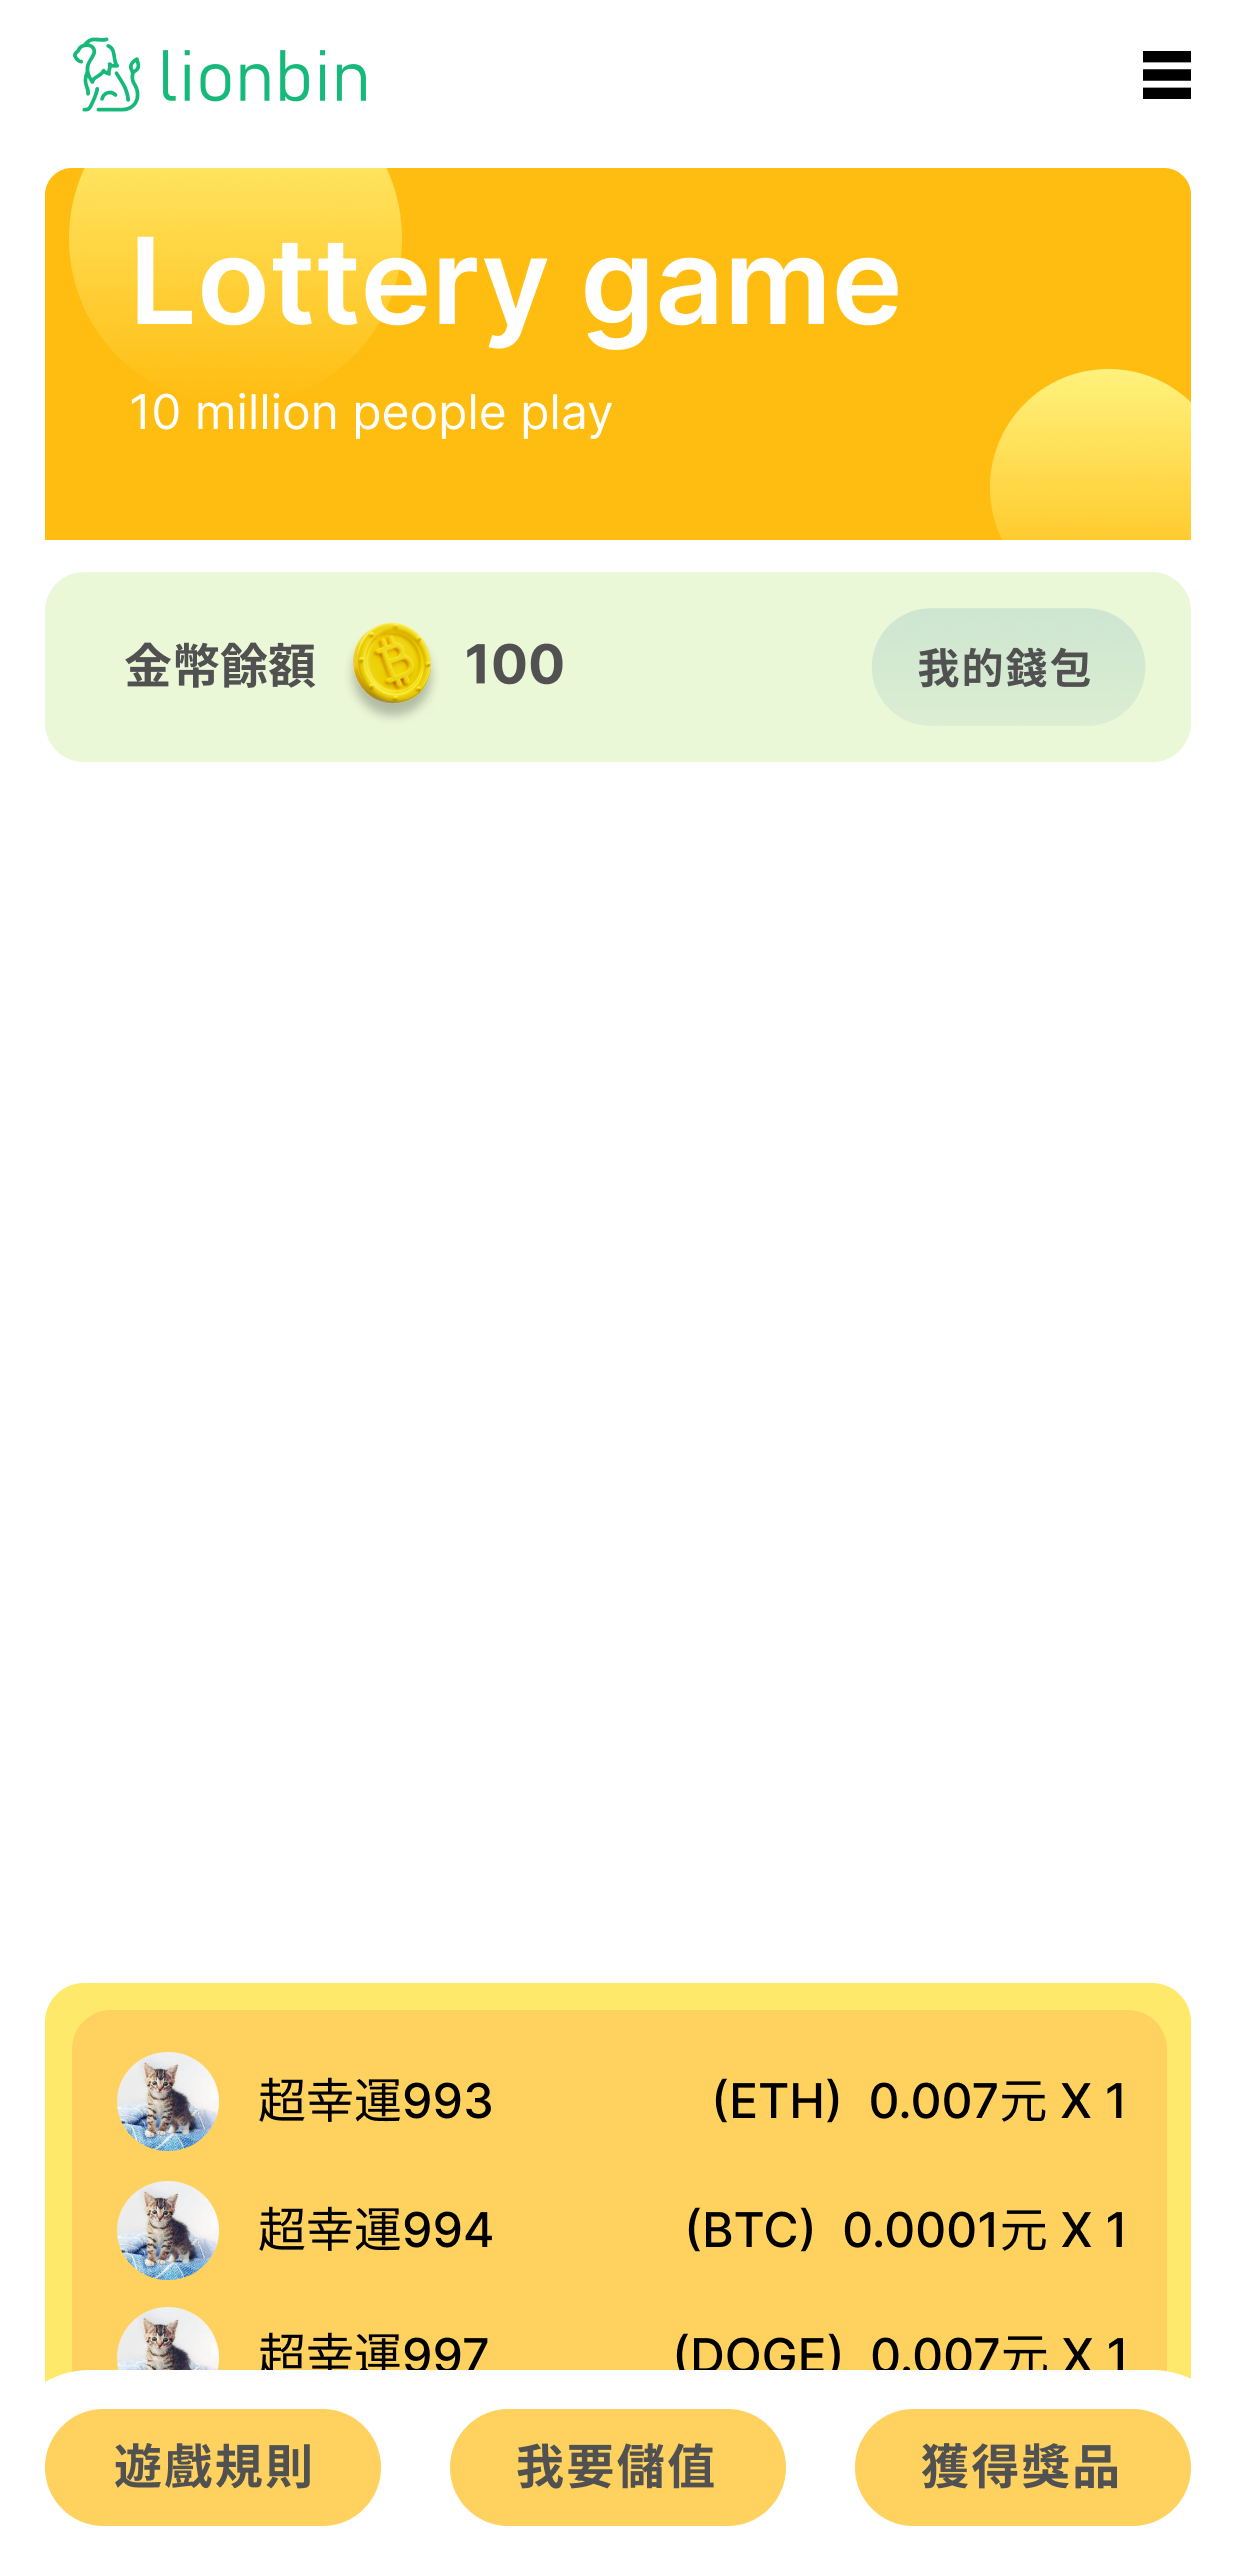
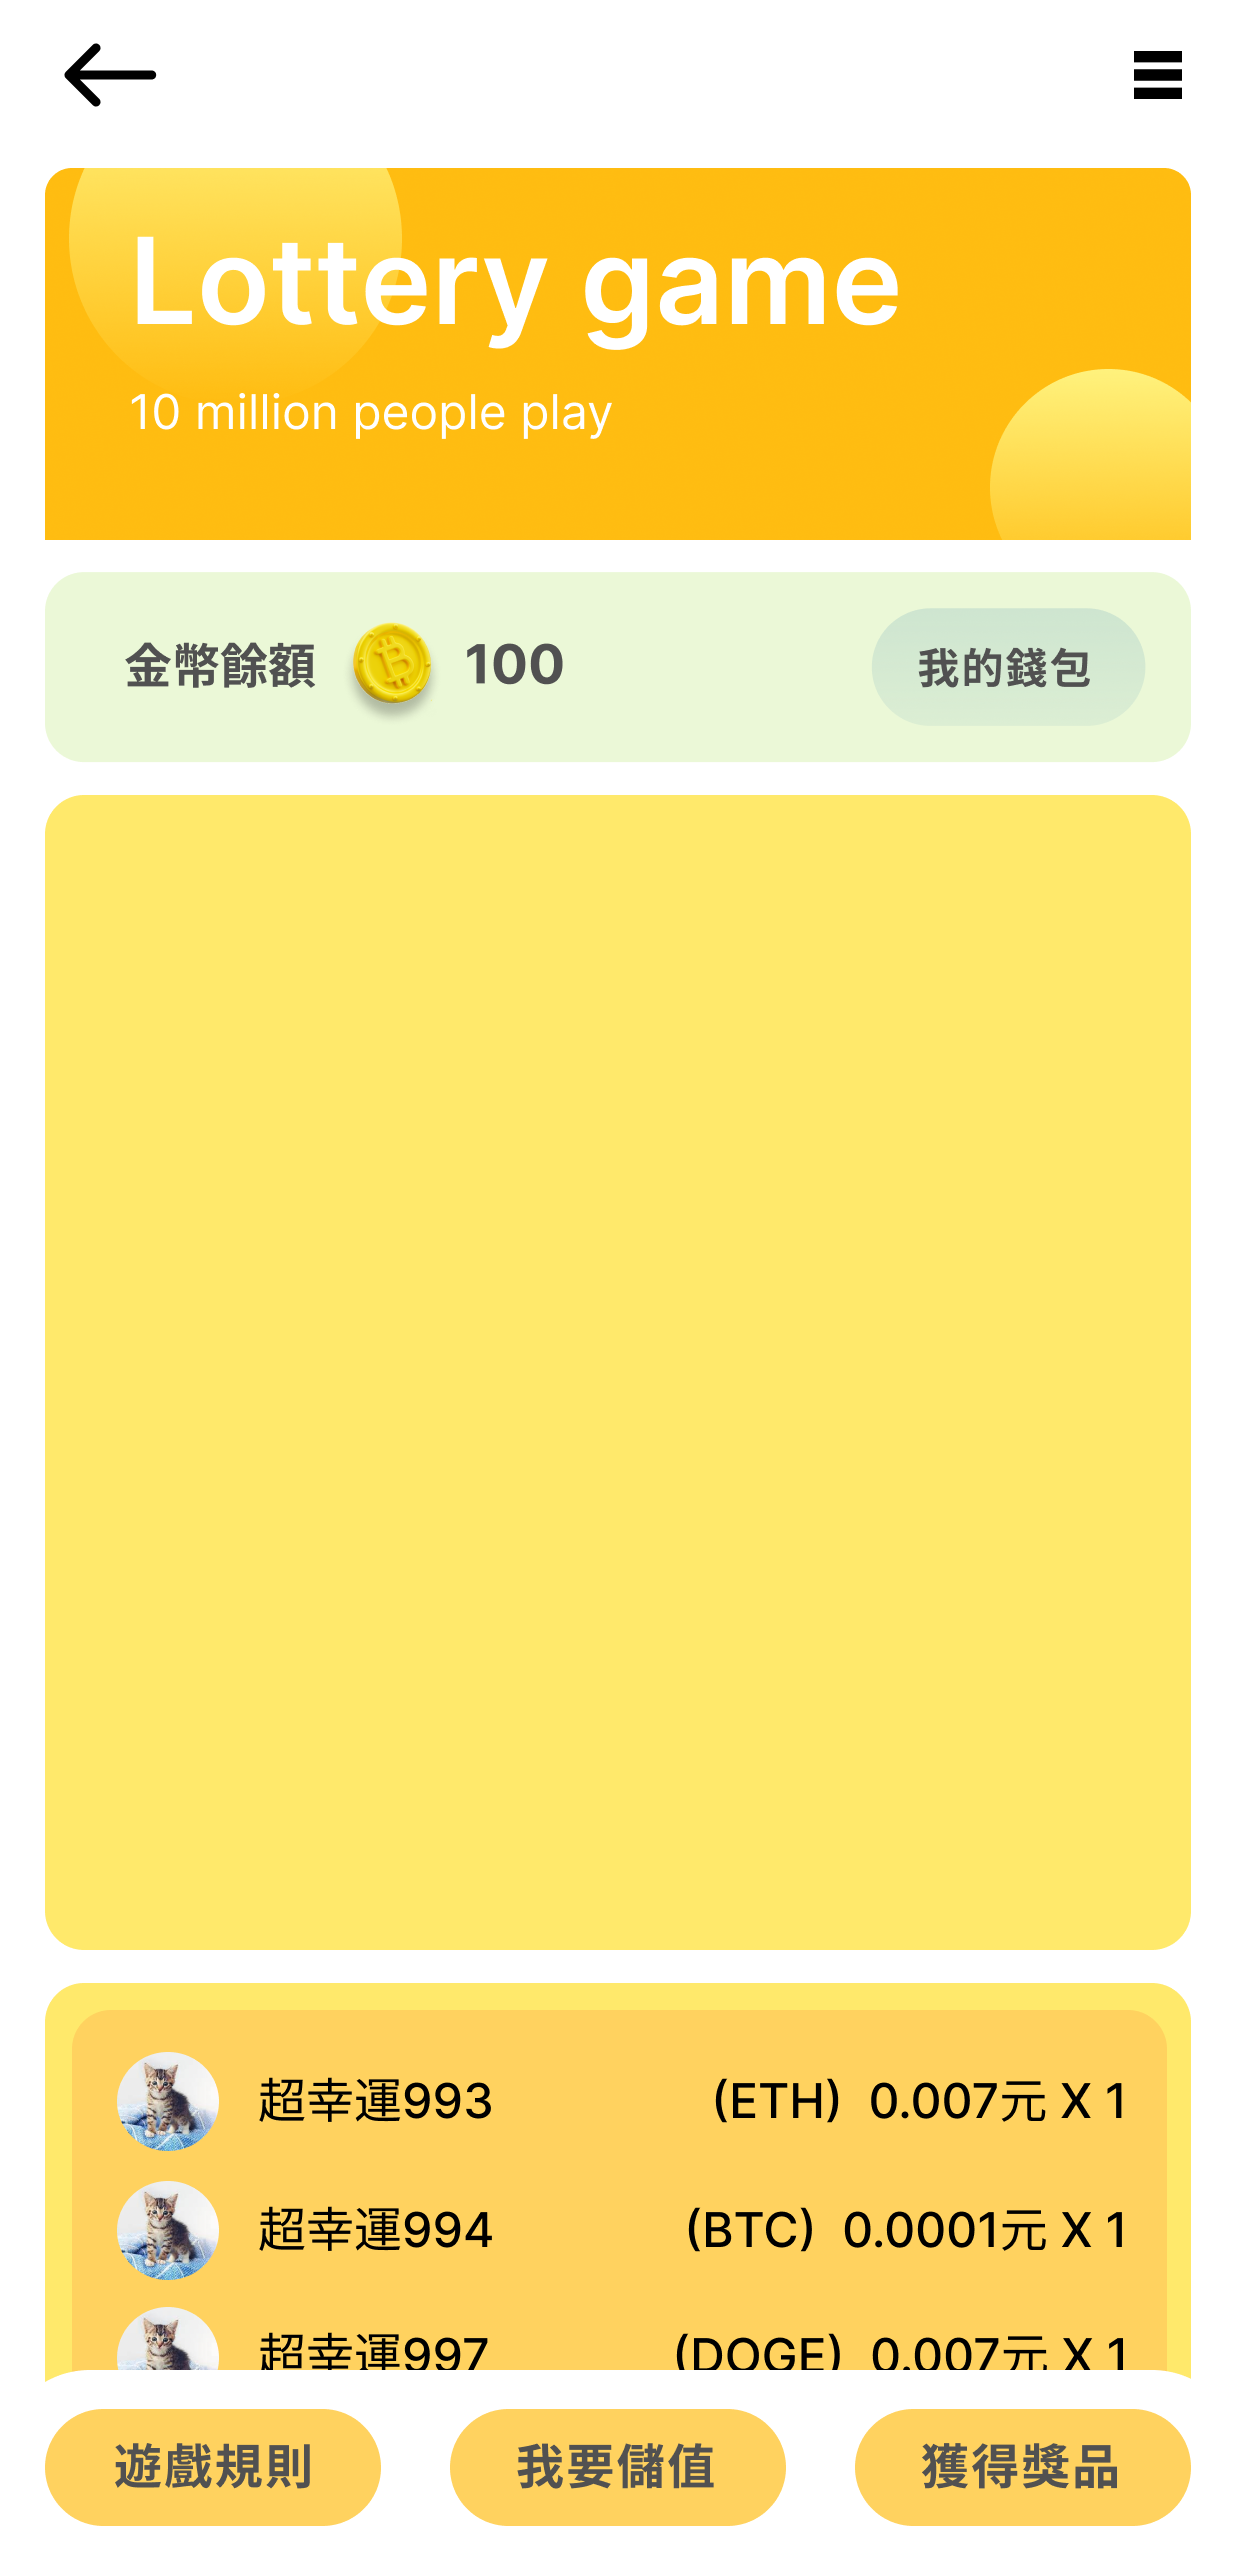
bg_add

diff --git a/index.html b/index.html
@@ -16,6 +16,7 @@
         background: url(images/bg.png) no-repeat ;
         background-size: cover;
         overflow: hidden;
+        position: relative;
     }
     #container {
         margin: 0 auto;
@@ -99,11 +100,21 @@
         font-weight: bold;
         font-family: sans-serif;
     }
+
+    a{
+        display: block;
+        width: 40px;
+        height: 40px;
+        position: absolute;
+        left: 16px;
+        top: 5;
+    }
 </style>
 </head>
 <body>            
     <!-- <h3 style="text-align:center;margin-top: 10%;color:white">實現九宮格抽獎</h3> -->
 <div id="bg">
+    <a href="https://judywork.github.io/Games_Lobby/"></a>
     <div id="container">
         <ul id="list">
             <!-- img標籤放獎品圖片 -->
@@ -159,7 +170,7 @@
     function startinit(num) {
         var i = 0;  //定義一個i 用來計算抽獎跑動的總次數
         var t =200;  //抽獎跑動的速度 初始爲200毫秒
-        var rounds = 5;  //抽獎轉動的圈數
+        var rounds = 2;  //抽獎轉動的圈數
         var rNum = rounds*8;  //標記跑動的次數（這是一個條件判斷分界線）
         timer = setTimeout(startscroll, t);//每t毫秒執行startscroll函數
 
